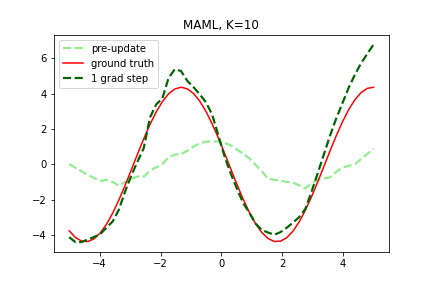
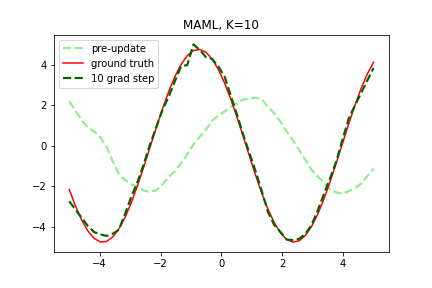
correct bug

diff --git a/Model_Agnostic_Meta_Learning_for_Fast_Adaptation_of_Deep_Networks/maml.py b/Model_Agnostic_Meta_Learning_for_Fast_Adaptation_of_Deep_Networks/maml.py
@@ -3,21 +3,13 @@ import torch.nn as nn
 import numpy as np
 from tqdm import tqdm
 import matplotlib.pyplot as plt
+from torch.autograd import grad
 
 
-class MLP(nn.Module):
-
-    def __init__(self, input_dim=1, hidden_dim=40, output_dim=1):
-        super(MLP, self).__init__()
-
-        self.network = nn.Sequential(
-            nn.Linear(input_dim, hidden_dim), nn.ReLU(),
-            nn.Linear(hidden_dim, hidden_dim), nn.ReLU(),
-            nn.Linear(hidden_dim, output_dim),
-        )
-
-    def forward(self, x):
-        return self.network(x)
+def mlp(x, params):
+    h = torch.relu(torch.nn.functional.linear(x, params[0], bias=params[1]))
+    h = torch.relu(torch.nn.functional.linear(h, params[2], bias=params[3]))
+    return torch.nn.functional.linear(h, params[4], bias=params[5])
 
 
 class Task:
@@ -30,7 +22,6 @@ class Task:
         x = torch.rand((K, 1)) * 10 - 5  # Sample x in [-5, 5]
         y = self.a * torch.sin(x + self.b)
         loss_fct = nn.MSELoss()
-
         return x, y, loss_fct
 
 
@@ -38,32 +29,27 @@ class Task:
 def sample_task():
     a = torch.rand(1).item() * 4.9 + .1  # Sample the amplitude in [0.1, 5.0]
     b = torch.rand(1).item() * np.pi  # Sample the phase in [0, pi]
-
     return Task(a, b)
 
 
-def perform_k_training_steps(model, task, batch_size, inner_training_steps, alpha, device='cpu'):
-    optimizer = torch.optim.SGD(model.parameters(), lr=alpha)
-
+def perform_k_training_steps(params, task, batch_size, inner_training_steps, alpha, device='cpu'):
     for epoch in range(inner_training_steps):
         x_batch, target, loss_fct = task.sample(batch_size)
+        loss = loss_fct(mlp(x_batch.to(device), params), target.to(device))
 
-        loss = loss_fct(model(x_batch.to(device)), target.to(device))
-
-        optimizer.zero_grad()
-        loss.backward()
-        optimizer.step()
-
-    # Return the new weights after training
-    return model.state_dict()
+        for p in params:  # Zero grad
+            p.grad = None
+        gradients = grad(loss, params)
+        for p, g in zip(params, gradients):  # Grad step
+            p.data -= alpha * g
+    return params
 
 
-def maml(model, meta_optimizer, inner_training_steps, nb_epochs, batch_size_K, alpha, nb_tasks=10, device='cpu'):
+def maml(p_model, meta_optimizer, inner_training_steps, nb_epochs, batch_size_K, alpha, nb_tasks=10, device='cpu'):
     """
     Algorithm from https://arxiv.org/pdf/1703.03400v3.pdf (MAML for Few-Shot Supervised Learning)
     """
     training_loss = []
-
     for epoch in tqdm(range(nb_epochs)):  # Line 2 in the pseudocode
 
         theta_i_prime = []
@@ -72,66 +58,56 @@ def maml(model, meta_optimizer, inner_training_steps, nb_epochs, batch_size_K, a
         # Sample batch of tasks
         tasks = [sample_task() for _ in range(nb_tasks)]  # Line 3 in the pseudocode
         for task in tasks:
-            # Compute adapted parameters with gradient descent (line 7 in the pseudocode)
-            model_copy = MLP()
-            model_copy.load_state_dict(model.state_dict())
-            theta_i_prime.append(
-                perform_k_training_steps(model_copy.to(device), task, batch_size_K, inner_training_steps, alpha,
-                                         device=device))
+            theta_i_prime.append(perform_k_training_steps([p.clone() for p in p_model], task, batch_size_K,
+                                                          inner_training_steps, alpha, device=device))
             # Sample data points Di' for the meta-update (line 8 in the pseudocode)
             x, y, loss_fct = task.sample(25)
             D_i_prime.append((x, y, loss_fct))
 
         # Meta update
         meta_optimizer.zero_grad()
-        gradients = [torch.zeros_like(p) for p in model.parameters()]  # Initialize gradients
-
         batch_training_loss = []
         for i in range(nb_tasks):
             x, y, loss_fct = D_i_prime[i]
-
-            f_theta_prime = MLP().to(device)
-            f_theta_prime.load_state_dict(theta_i_prime[i])
-
+            f_theta_prime = theta_i_prime[i]
             # Compute \nabla_theta L(f_theta_i_prime) for task ti
-            loss = loss_fct(f_theta_prime(x.to(device)), y.to(device))
+            loss = loss_fct(mlp(x.to(device), f_theta_prime), y.to(device))
             loss.backward()
             batch_training_loss.append(loss.item())
 
-            # Store the gradients in the variable gradients
-            for g, p in zip(gradients, f_theta_prime.parameters()):
-                g += p.grad
-
-        # Set gradients for the meta optimizer
-        for p, g in zip(model.parameters(), gradients):
-            p.grad = g
-
         meta_optimizer.step()  # Line 10 in the pseudocode
-
         training_loss.append(np.mean(batch_training_loss))
-
     return training_loss
 
 
-if __name__ == 'main':
-    device = 'cpu'
-    model = MLP().to(device)
-    meta_optimizer = torch.optim.Adam(model.parameters(), lr=1e-3)
-    maml(model, meta_optimizer, 1, 70000, 10, 1e-3, device=device, nb_tasks=10)
+if __name__ == "__main__":
+    device = 'cuda'
+    params = [torch.rand(40, 1, device=device).uniform_(-np.sqrt(6. / 41), np.sqrt(6. / 41)).requires_grad_(),
+              torch.zeros(40, device=device).requires_grad_(),
+              torch.rand(40, 40, device=device).uniform_(-np.sqrt(6. / 80), np.sqrt(6. / 80)).requires_grad_(),
+              torch.zeros(40, device=device).requires_grad_(),
+              torch.rand(1, 40, device=device).uniform_(-np.sqrt(6. / 41), np.sqrt(6. / 41)).requires_grad_(),
+              torch.zeros(1, device=device).requires_grad_()]
+
+    device = 'cuda'
+    meta_optimizer = torch.optim.Adam(params, lr=1e-3)
+    training_loss = maml(params, meta_optimizer, 1, 70_000, 10, 1e-3, device=device, nb_tasks=10)
 
     plt.title('MAML, K=10')
-    x = torch.linspace(-5, 5, 50)
-    y = model(x[..., None])
-    plt.plot(x.data.numpy(), y.data.numpy(), c='lightgreen', linestyle='--', linewidth=2.2, label='pre-update')
+    x = torch.linspace(-5, 5, 50).to(device)
+    y = mlp(x[..., None], params)
+    plt.plot(x.data.cpu().numpy(), y.data.cpu().numpy(), c='lightgreen', linestyle='--', linewidth=2.2,
+             label='pre-update')
     # New task
     task = sample_task()
     ground_truth_y = task.a * torch.sin(x + task.b)
-    plt.plot(x.data.numpy(), ground_truth_y.data.numpy(), c='red', label='ground truth')
-    # Fine-tuning; 1 gradient steps
-    perform_k_training_steps(model, task, 1, 10, 1e-3, device='cpu')
-    # After 1 gradient steps
-    y = model(x[..., None])
-    plt.plot(x.data.numpy(), y.data.numpy(), c='darkgreen', linestyle='--', linewidth=2.2, label='1 grad step')
+    plt.plot(x.data.cpu().numpy(), ground_truth_y.data.cpu().numpy(), c='red', label='ground truth')
+    # Fine-tuning, 10 gradient steps
+    new_params = perform_k_training_steps([p.clone() for p in params], task, 10, 10, 1e-3, device=device)
+    # After 10 gradient steps
+    y = mlp(x[..., None], new_params)
+    plt.plot(x.data.cpu().numpy(), y.data.cpu().numpy(), c='darkgreen', linestyle='--', linewidth=2.2,
+             label='10 grad step')
     plt.legend()
-    plt.savefig('Imgs/maml.png')
-    plt.close()
+    plt.savefig('maml.png')
+    plt.show()
